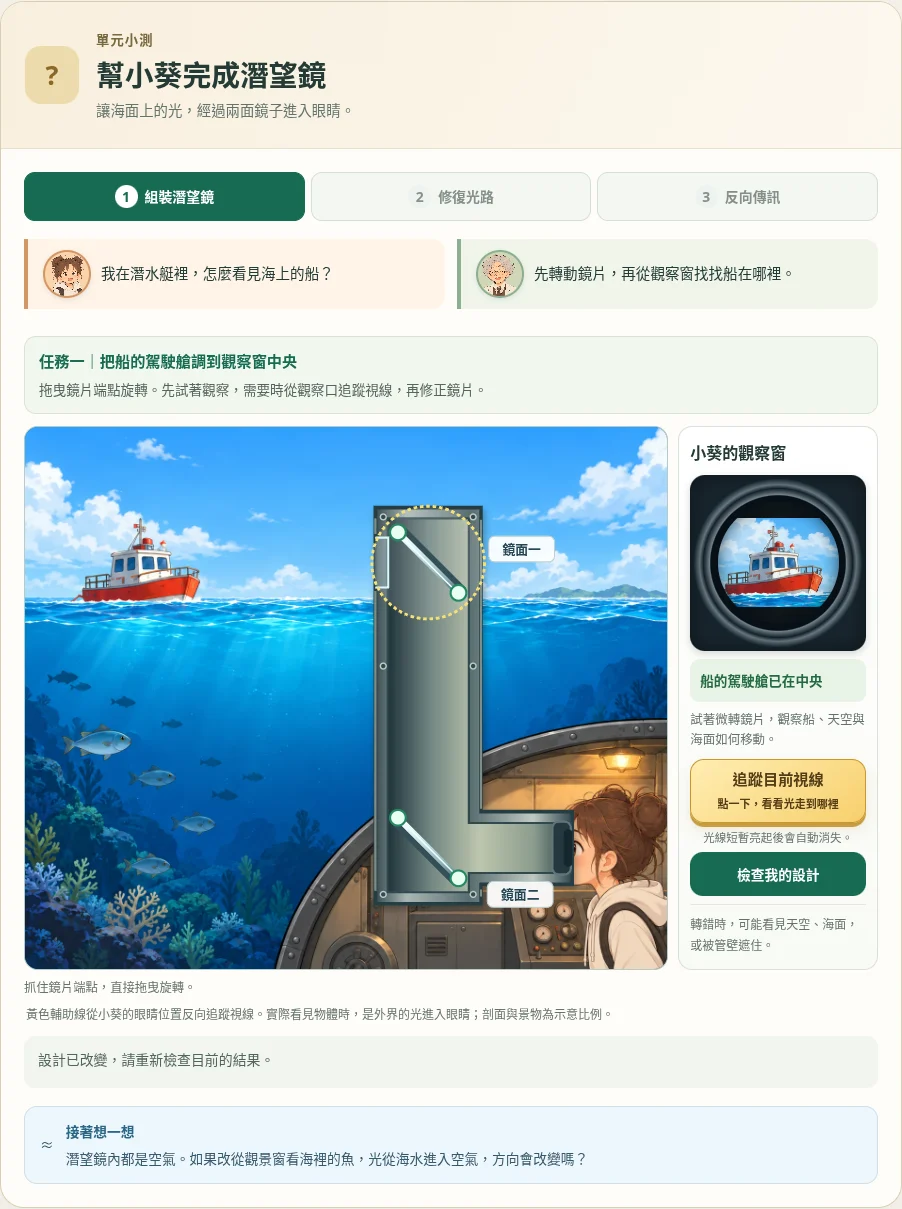
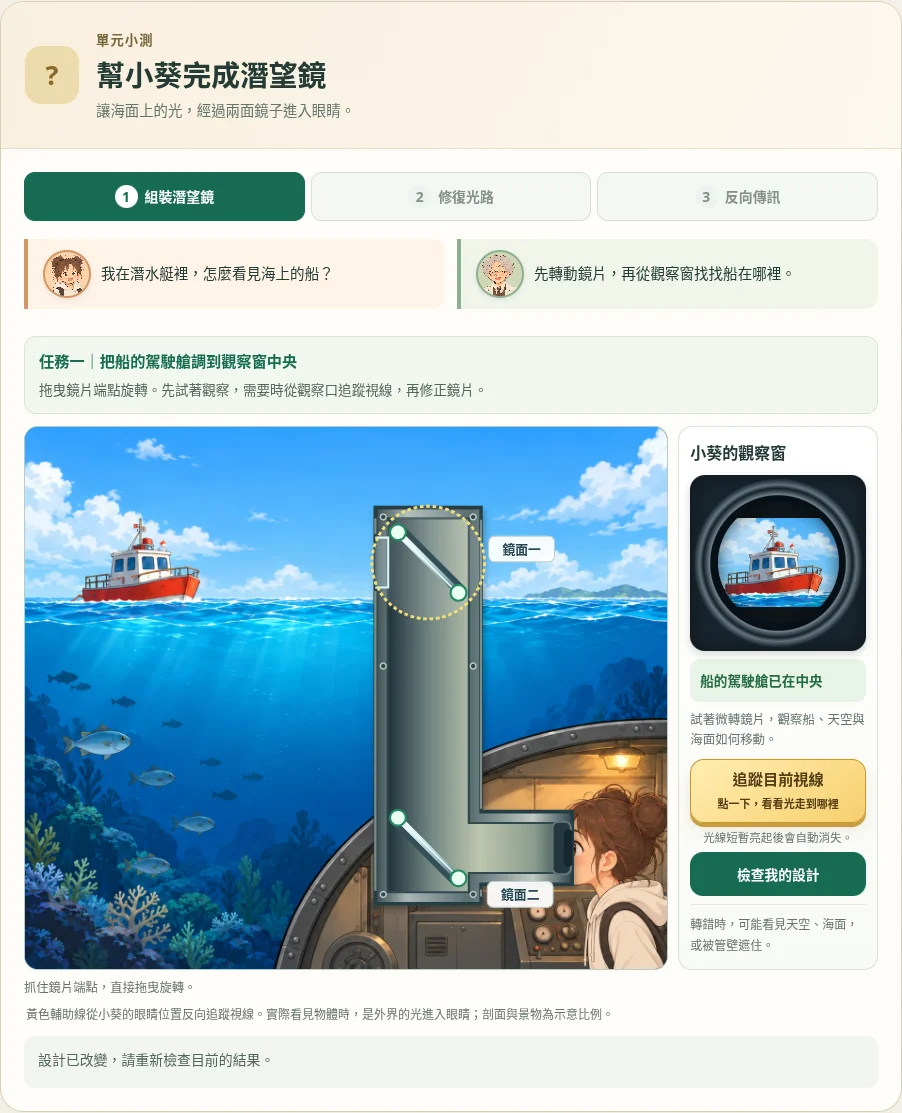
Focus periscope repair on hands-on mirror adjustment

diff --git a/units/1/parts/1.2/assets/periscope.css b/units/1/parts/1.2/assets/periscope.css
@@ -9,8 +9,8 @@
 .periscope-task{display:flex;align-items:start;gap:12px;margin:17px 0 12px;padding:12px 14px;border:1px solid #d9e3d6;background:#f2f7ef;border-radius:12px}.periscope-task strong{display:block;color:var(--green);font-size:.95rem}.periscope-task p{margin:3px 0 0;color:#53665d;font-size:.85rem}
 .periscope-workspace{display:grid;grid-template-columns:minmax(0,1fr) minmax(160px,.31fr);gap:10px;align-items:stretch}.periscope-cutaway{position:relative;min-width:0;overflow:hidden;border:1px solid #b8cbc9;border-radius:14px;background:#16658d;line-height:0}.periscope-cutaway>svg{display:block;width:100%;height:auto;aspect-ratio:900/760}.periscope-cutaway text{font-family:inherit;fill:#244653;font-size:18px;font-weight:750}.periscope-cutaway .scene-label rect{fill:#fffffff0;stroke:#bdd1d0;stroke-width:1.5}.periscope-cutaway .mirror-drag{touch-action:none;cursor:grab;outline:none}.periscope-cutaway .mirror-drag:active{cursor:grabbing}.periscope-cutaway .mirror-drag:focus-visible .scope-mirror-focus{stroke:#f6df74;stroke-width:4;stroke-dasharray:5 4;fill:#fff2}.periscope-cutaway .mirror-drag[aria-disabled=true]{cursor:default}.scope-mirror-focus{fill:transparent;stroke:transparent}.scope-mirror-hit{stroke:transparent;stroke-width:76;pointer-events:stroke}.scope-mirror-handle{fill:#e8fff0;stroke:#238965;stroke-width:3;pointer-events:none}.periscope-path{pointer-events:none}.periscope-path path{stroke-linejoin:round;stroke-linecap:round;fill:none}.periscope-path .light-glow{filter:url(#scope-glow);stroke-width:10;opacity:.65}.periscope-path .light-line{stroke-width:4}.periscope-path .light-arrow{stroke-width:3}.periscope-model-note{margin:6px 2px 0;color:var(--muted);font-size:.75rem;line-height:1.6}
 .periscope-view{display:flex;flex-direction:column;justify-content:flex-start;min-width:0;gap:12px;border:1px solid #d9e1db;border-radius:14px;background:linear-gradient(#fff,#f8faf5);padding:13px 11px}.periscope-view h3{margin:0;font-size:1rem;color:var(--ink)}.periscope-lens-frame{position:relative;display:grid;place-items:center;aspect-ratio:1;border-radius:15px;background:radial-gradient(circle,#080f15 0 54%,#72808a 55%,#35454d 58%,#162129 60%,#677781 63%,#26363f 67%,#17242c 68%);box-shadow:inset 0 0 18px #0007,0 3px 8px #253b3330;overflow:hidden}.periscope-lens-frame::after{position:absolute;inset:15.5%;content:'';border-radius:50%;box-shadow:inset 0 0 10px #061b2570;pointer-events:none}.periscope-lens-frame canvas{display:block;width:69%;height:69%;border-radius:50%;background:#111b22}.periscope-view-state{display:flex;align-items:center;gap:7px;min-height:43px;padding:8px 10px;border-radius:10px;background:#eef2ed;color:#4a6058;font-size:.85rem;font-weight:800;line-height:1.4}.periscope-view-state[data-kind=boat]{background:#e8f3e5;color:#246a42}.periscope-view-state[data-kind=blocked]{background:#e9edf0;color:#405260}.periscope-view p{margin:0;color:var(--muted);font-size:.78rem;line-height:1.65}.periscope-view-meter{margin-top:auto;border-top:1px solid #e2e8e0;padding-top:10px;font-size:.75rem;color:#65736c}.periscope-controls{display:flex;flex-wrap:wrap;gap:8px;margin-top:12px}.periscope-controls button{flex:1 1 auto;min-height:44px;padding:8px 10px;border:1px solid #cbd8d2;border-radius:10px;background:#fff;color:#2e5447;font-size:.86rem;font-weight:750}.periscope-controls button[aria-pressed=true]{background:#e5f3eb;border-color:#278361}.periscope-keyboard{margin:8px 0 0;color:var(--muted);font-size:.77rem}
-.periscope-question{margin-top:19px;padding:16px;border:1px solid #d9e1db;border-radius:14px;background:#fff}.periscope-question h3{font-size:1rem;margin:0 0 5px}.periscope-question>p{font-size:.83rem;color:var(--muted);margin:0 0 13px}.periscope-answer-list{display:grid;gap:8px;margin-top:12px}.periscope-answer{min-height:45px;padding:10px 13px;border:1px solid #d3ded8;border-radius:10px;background:#fff;color:var(--ink);text-align:left;font-size:.9rem}.periscope-answer::before{content:'○';margin-right:9px;color:#87998e}.periscope-answer[aria-pressed=true]{border-color:var(--green);background:#edf6ed}.periscope-answer[aria-pressed=true]::before{content:'●';color:var(--green)}.periscope-choice-row{display:flex;gap:9px}.periscope-choice-row button{flex:1}
-.periscope-footer{display:flex;align-items:center;gap:10px;flex-wrap:wrap;margin-top:15px}.periscope-footer button{min-height:46px}.periscope-feedback{margin-top:12px;padding:12px 14px;min-height:52px;border-radius:11px;background:#f2f5ef;color:#51665a;font-size:.87rem}.periscope-feedback[data-state=good]{background:#e9f4e8;color:#24633e}.periscope-feedback[data-state=try]{background:#fff2e2;color:#7a512c}.periscope-next-lesson{display:flex;gap:12px;align-items:center;margin-top:18px;padding:13px 15px;border:1px solid #cfdfeb;border-radius:13px;background:#edf7fd;font-size:.86rem;color:#36586c}.periscope-next-lesson strong{display:block;color:#2a6584}.periscope-next-lesson p{margin:3px 0 0}.periscope-signal{border-color:#5485af!important;color:#275f8d!important;background:#eef6ff!important}.periscope-signal[aria-pressed=true]{background:#236fa9!important;color:#fff!important}.periscope-complete{margin-top:14px;padding:16px;border:1px solid #b6d0b7;border-radius:13px;background:#edf7e9}.periscope-complete h3{color:var(--green);margin:0 0 5px;font-size:1.05rem}.periscope-complete p{margin:0;color:#48624e;font-size:.88rem}
+.periscope-question{margin-top:19px;padding:16px;border:1px solid #d9e1db;border-radius:14px;background:#fff}.periscope-question h3{font-size:1rem;margin:0 0 5px}.periscope-question>p{font-size:.83rem;color:var(--muted);margin:0 0 13px}.periscope-answer-list{display:grid;gap:8px;margin-top:12px}.periscope-answer{min-height:45px;padding:10px 13px;border:1px solid #d3ded8;border-radius:10px;background:#fff;color:var(--ink);text-align:left;font-size:.9rem}.periscope-answer::before{content:'○';margin-right:9px;color:#87998e}.periscope-answer[aria-pressed=true]{border-color:var(--green);background:#edf6ed}.periscope-answer[aria-pressed=true]::before{content:'●';color:var(--green)}
+.periscope-footer{display:flex;align-items:center;gap:10px;flex-wrap:wrap;margin-top:15px}.periscope-footer button{min-height:46px}.periscope-feedback{margin-top:12px;padding:12px 14px;min-height:52px;border-radius:11px;background:#f2f5ef;color:#51665a;font-size:.87rem}.periscope-feedback[data-state=good]{background:#e9f4e8;color:#24633e}.periscope-feedback[data-state=try]{background:#fff2e2;color:#7a512c}.periscope-signal{border-color:#5485af!important;color:#275f8d!important;background:#eef6ff!important}.periscope-signal[aria-pressed=true]{background:#236fa9!important;color:#fff!important}.periscope-complete{margin-top:14px;padding:16px;border:1px solid #b6d0b7;border-radius:13px;background:#edf7e9}.periscope-complete h3{color:var(--green);margin:0 0 5px;font-size:1.05rem}.periscope-complete p{margin:0;color:#48624e;font-size:.88rem}
 @media(min-width:1000px){.periscope-talks{display:grid;grid-template-columns:1fr 1fr;gap:12px}.periscope-talks .dialogue{margin-top:0}.periscope-body{padding:23px}}
 @media(max-width:1050px) and (min-width:601px){.periscope-workspace{grid-template-columns:1fr}.periscope-view{display:grid;grid-template-columns:130px 1fr;align-items:center}.periscope-view h3{grid-column:1/-1}.periscope-lens-frame{grid-row:2/5}.periscope-view-meter{display:none}}
 @media(max-width:600px){.periscope-heading{padding:18px 15px;gap:12px}.periscope-heading .quiz-icon{flex-basis:42px;height:48px;border-radius:12px}.periscope-body{padding:14px}.periscope-steps{gap:4px}.periscope-steps button{font-size:.76rem;flex-direction:column;gap:4px;padding:8px 3px}.periscope-workspace{grid-template-columns:1fr}.periscope-view{display:grid;grid-template-columns:120px 1fr;gap:8px 12px;align-items:center;padding:11px}.periscope-view h3{grid-column:1/-1}.periscope-lens-frame{grid-row:2/5}.periscope-view-meter{display:none}.periscope-view-state{font-size:.82rem}.periscope-view p{font-size:.76rem}.periscope-question{padding:12px}.periscope-controls{gap:6px}.periscope-controls button{font-size:.78rem;padding:7px}.periscope-task{padding:10px 12px}.periscope-task p{font-size:.8rem}.periscope-heading h2{font-size:1.28rem}}

diff --git a/units/1/parts/1.2/assets/periscope.js b/units/1/parts/1.2/assets/periscope.js
@@ -6,7 +6,7 @@ if(root) {
   const $=s=>root.querySelector(s), $$=s=>[...root.querySelectorAll(s)];
   const svg=$('#periscope-scene'), canvas=$('#periscope-view'), ctx=canvas.getContext('2d',{alpha:false});
   const groups=[$('#periscope-mirror-0'),$('#periscope-mirror-1')];
-  const state={stage:0,angles:[38,51],done:[false,false,false],diagnosis:null,prediction:null,signal:false,verified:false,saved:[45,45]};
+  const state={stage:0,angles:[38,51],done:[false,false,false],prediction:null,signal:false,verified:false,saved:[45,45]};
   let scenePixels=null, lastViewKey='', pending=0, dragging=null;
   const reducedMotion=matchMedia('(prefers-reduced-motion: reduce)');
   let pulse=null,pulseFrame=0,pulseEndTimer=0,pulseUnlockTimer=0,nextPulseAt=0,pulseCount=0;
@@ -169,8 +169,7 @@ if(root) {
     $('#periscope-view-copy').textContent=state.stage===2?'鏡片固定，保留剛才看見的景象作對照。':info.kind==='blocked'?'鏡子未把外界的光送進眼睛。看看光在哪裡被擋住。':info.blocked/(info.clear+info.blocked)>.3?'邊緣的暗區是管壁或有限鏡片造成的遮擋。':'試著微轉鏡片，觀察船、天空與海面如何移動。';
     $$('.periscope-steps button').forEach((b,i)=>{b.disabled=i>0&&!state.done[i-1];b.setAttribute('aria-selected',String(i===state.stage));b.tabIndex=i===state.stage?0:-1;b.dataset.complete=String(state.done[i]);});
     $('#periscope-panel').setAttribute('aria-labelledby',`periscope-tab-${state.stage}`);
-    for(let i=1;i<3;i++)$(`#periscope-question-${i}`).hidden=i!==state.stage;
-    $$('[data-diagnosis]').forEach(b=>b.setAttribute('aria-pressed',String(Number(b.dataset.diagnosis)===state.diagnosis)));
+    $('#periscope-question-2').hidden=state.stage!==2;
     $$('[data-prediction]').forEach(b=>b.setAttribute('aria-pressed',String(b.dataset.prediction===state.prediction)));
     updatePulseControls();
     $('#periscope-signal').hidden=state.stage!==2;$('#periscope-signal').disabled=!state.prediction;$('#periscope-signal').setAttribute('aria-pressed',String(state.signal));$('#periscope-signal').textContent=state.signal?'關閉訊號光':'發送訊號光';
@@ -218,7 +217,6 @@ if(root) {
     g.addEventListener('pointerup',end);g.addEventListener('pointercancel',end);g.addEventListener('lostpointercapture',()=>{dragging=null;});
     g.addEventListener('keydown',e=>{if(state.stage===2)return;let n=state.angles[i],step=e.shiftKey?2:.5;if(e.key==='ArrowLeft'||e.key==='ArrowDown')n-=step;else if(e.key==='ArrowRight'||e.key==='ArrowUp')n+=step;else if(e.key==='Home')n=OPTICS.minAngle;else if(e.key==='End')n=OPTICS.maxAngle;else return;e.preventDefault();setAngle(i,n);});
   });
-  $$('[data-diagnosis]').forEach(b=>b.addEventListener('click',()=>{invalidate();state.diagnosis=Number(b.dataset.diagnosis);render();}));
   $$('[data-prediction]').forEach(b=>b.addEventListener('click',()=>{invalidate();state.prediction=b.dataset.prediction;state.verified=false;state.signal=false;render();}));
   $('#periscope-pulse').addEventListener('click',emitPulse);
   $('#periscope-signal').addEventListener('click',()=>{if(!state.prediction)return;state.signal=!state.signal;if(state.signal)state.verified=true;render();});
@@ -227,15 +225,15 @@ if(root) {
     cancelPulse(true);state.stage=stage;state.signal=false;state.verified=false;
     const content=[
       ['我在潛水艇裡，怎麼看見海上的船？','先轉動鏡片，再從觀察窗找找船在哪裡。','任務一｜把船的駕駛艙調到觀察窗中央','拖曳鏡片端點旋轉。先試著觀察，需要時從觀察口追蹤視線，再修正鏡片。'],
-      ['剛才明明看見船，怎麼現在偏向天空了？','先判斷哪片鏡子被轉動，再把景象修回來。','任務二｜找出故障，讓船重新回到中央','先選擇你的判斷，再拖動鏡片修復；需要時從觀察口反向追蹤視線。'],
+      ['剛才明明看見船，怎麼現在偏向天空了？','轉動鏡片，試著把船重新找回來。','任務二｜把船重新調回觀察窗中央','拖曳鏡片端點，觀察景象怎麼移動；需要時追蹤目前視線，再調整鏡片。'],
       ['我能沿同一條路，把訊號送回船上嗎？','鏡片保持不動，先預測，再發送藍色訊號光。','任務三｜讓訊號沿原光路返回','暫以訊號光源替換眼睛；黃色是原入眼光線，藍光從同一位置反向發出。']
     ][stage];
     ['#periscope-student','#periscope-grandpa','#periscope-task-title','#periscope-task-copy'].forEach((id,i)=>$(id).textContent=content[i]);
     if(stage===0) {
       feedback('調整兩片鏡子，讓船的駕駛艙出現在觀察窗中央。');
     } else if(stage===1) {
-      state.angles=[Math.min(65,state.saved[0]+9),state.saved[1]];state.diagnosis=null;state.done[1]=false;state.done[2]=false;
-      feedback('先判斷哪片鏡子偏了，再修復；只碰巧看到船還不算完成。');
+      state.angles=[Math.min(65,state.saved[0]+9),state.saved[1]];state.done[1]=false;state.done[2]=false;
+      feedback('調整鏡片，讓船的駕駛艙重新回到觀察窗中央。');
     } else {state.angles=[...state.saved];state.prediction=null;state.done[2]=false;feedback('先選擇預測，再發送訊號，最後確認你的判斷。');}
     lastViewKey='';render();
   }
@@ -250,11 +248,9 @@ if(root) {
       if(!info.target){feedback('還沒對準船的駕駛艙。看看觀察窗：目前是天空、海面，還是被管壁擋住？','try');return;}
       state.saved=[...state.angles];state.done[0]=true;feedback('設計完成！小葵已看見船的駕駛艙。接著試著排除故障。','good');
     } else if(state.stage===1) {
-      if(state.diagnosis===null){feedback('先判斷哪片鏡子被轉動，再檢查修復結果。','try');return;}
-      if(state.diagnosis!==0){feedback('這次被轉動的鏡片與你的判斷不同。比較光從哪一處開始偏離，再試一次。','try');return;}
-      if(!info.target){feedback('已找出故障鏡片，還要把船的駕駛艙調回觀察窗中央。','try');return;}
+      if(!info.target){feedback('還沒對準，再調整鏡片，讓船的駕駛艙回到觀察窗中央。','try');return;}
       if(!returnSignal(state.angles).receiver){feedback('船已進入視野，再拖動鏡片讓駕駛艙回到中央，讓接下來的訊號也能回到船上。','try');return;}
-      state.saved=[...state.angles];state.done[1]=true;feedback('修復成功！上方鏡片偏轉，會把視線帶向天空或海面；偏得太多也會被管壁擋住。','good');
+      state.saved=[...state.angles];state.done[1]=true;feedback('修復成功！船已回到中央。鏡面角度改變，視線也會跟著改變。','good');
     } else {
       if(!state.prediction){feedback('先選擇一個預測，再發送訊號驗證。','try');return;}
       if(!state.verified){feedback('按「發送訊號光」，實際比較藍光與黃色原路線。','try');return;}

diff --git a/units/1/parts/1.2/index.html b/units/1/parts/1.2/index.html
@@ -103,7 +103,7 @@
   </style>
   <link rel="stylesheet" href="assets/curved-mirrors.css?v=1">
   <link rel="stylesheet" href="assets/reversible-light.css?v=3">
-  <link rel="stylesheet" href="assets/periscope.css?v=7">
+  <link rel="stylesheet" href="assets/periscope.css?v=8">
 </head>
 <body>
   <header class="shell masthead">
@@ -439,13 +439,11 @@
               <div class="periscope-controls" id="periscope-signal-controls" hidden><button type="button" id="periscope-signal" class="periscope-signal" aria-pressed="false" hidden disabled>發送訊號光</button></div>
               <p class="periscope-keyboard" id="periscope-drag-help">抓住鏡片端點，直接拖曳旋轉。</p>
               <p class="periscope-model-note">黃色輔助線從小葵的眼睛位置反向追蹤視線。實際看見物體時，是外界的光進入眼睛；剖面與景物為示意比例。</p>
-              <div class="periscope-question" id="periscope-question-1" hidden><h3>哪一片鏡子被轉動了？</h3><p>比較原本的路線，先作判斷，再試著修復。</p><div class="periscope-choice-row"><button class="periscope-answer" type="button" data-diagnosis="0" aria-pressed="false">鏡面一</button><button class="periscope-answer" type="button" data-diagnosis="1" aria-pressed="false">鏡面二</button></div></div>
               <div class="periscope-question" id="periscope-question-2" hidden><h3>鏡子不動，從眼睛的位置沿原光路反向發出訊號，會怎麼走？</h3><p>先預測，再按「發送訊號光」比較藍光與原本的路線。</p><div class="periscope-answer-list"><button class="periscope-answer" type="button" data-prediction="same" aria-pressed="false">沿完整的原路徑返回，從上方入口照向船。</button><button class="periscope-answer" type="button" data-prediction="inside" aria-pressed="false">只有管內的路徑重合，離開入口後方向會不同。</button><button class="periscope-answer" type="button" data-prediction="turn" aria-pressed="false">兩次反射後會換一條路，需要再調鏡子才能照向船。</button></div></div>
               <div class="periscope-footer" hidden><button type="button" id="periscope-next" class="action" hidden>前往修復光路 →</button></div>
               <div id="periscope-feedback" class="periscope-feedback" role="status">調整兩片鏡子，讓船的駕駛艙出現在觀察窗中央。</div>
               <div id="periscope-complete" class="periscope-complete" hidden><h3>任務完成！小葵看見船，也把訊號送回去了。</h3><p>每一次反射都遵守入射角等於反射角。鏡面固定時，光也能沿原路徑反向傳播。</p></div>
             </div>
-            <div class="periscope-next-lesson"><span aria-hidden="true">≈</span><div><strong>接著想一想</strong><p>潛望鏡內都是空氣。如果改從觀景窗看海裡的魚，光從海水進入空氣，方向會改變嗎？</p></div></div>
             <noscript><p>這個小測需要 JavaScript。船反射的光經上方、下方兩片平面鏡進入眼睛；鏡片偏轉可能讓視線改向天空、海面或被管壁遮擋。</p></noscript>
           </div>
         </section>
@@ -474,6 +472,6 @@
   <script type="module" src="assets/reflection-3d.js?v=46"></script>
   <script type="module" src="assets/laser-reflection.js?v=36"></script>
   <script type="module" src="assets/reversible-light.js?v=3"></script>
-  <script type="module" src="assets/periscope.js?v=12"></script>
+  <script type="module" src="assets/periscope.js?v=13"></script>
 </body>
 </html>

diff --git a/tests/README.md b/tests/README.md
@@ -139,7 +139,7 @@ CHROMIUM_PATH=/usr/bin/chromium node --test tests/unit-5.1-dual-scale.test.cjs t
 CHROMIUM_PATH=/usr/bin/chromium node --test --test-concurrency=1 tests/unit-1.2-periscope.test.cjs tests/unit-1.2-mirror.test.cjs tests/unit-1.2-curved-mirrors.test.cjs tests/unit-1.2-reversible.test.cjs
 ```
 
-潛望鏡檢查有限鏡片與單面反射、36 × 36 組角度的反射分量及管道邊界、不同視線的獨立反向傳播、船／天空／海面及局部／完全遮擋、觀察窗實際像素與完整三維視線的交叉核對。實際操作涵蓋兩片鏡子的滑鼠拖曳、CDP 觸控拖曳、鍵盤與半度微調、角度上下限、取消拖曳、光路及提示、第一關只依實際對準判定、後兩關答案與操作門檻、反向訊號重合、狀態失效及沒有整份重來按鈕，以及 1440／1280／1024／768／390 px 版面、資源錯誤及離頁時 GPU 資源釋放。
+潛望鏡檢查有限鏡片與單面反射、36 × 36 組角度的反射分量及管道邊界、不同視線的獨立反向傳播、船／天空／海面及局部／完全遮擋、觀察窗實際像素與完整三維視線的交叉核對。實際操作涵蓋兩片鏡子的滑鼠拖曳、CDP 觸控拖曳、鍵盤與半度微調、角度上下限、取消拖曳、光路及提示、第一關只依實際對準判定、第二關僅依實際修復判定、沒有鏡片選擇題或底部折射延伸問題、第三關答案與操作門檻、反向訊號重合、狀態失效及沒有整份重來按鈕，以及 1440／1280／1024／768／390 px 版面、資源錯誤及離頁時 GPU 資源釋放。
 
 與第三至六區循序執行回歸，避免多個軟體 WebGL 瀏覽器競用。實體點擊前取消平滑捲動並確認座標穩定，不以強制點擊略過命中問題。觀察窗取樣核對使用相同 Canvas CPU 色彩取樣方式，以免 GPU／CPU 縮圖插值差異被誤判為光路偏差。整卡截圖暫隱藏外側 sticky 導覽，避免離開視窗的部分在長截圖中混入懸浮導覽；正式頁面不隱藏導覽。截圖與人工對照保留在 `docs/reviews/unit-1.2-periscope/`。
 

diff --git a/docs/reviews/unit-1.2-periscope/review.md b/docs/reviews/unit-1.2-periscope/review.md
@@ -155,3 +155,11 @@
 五種寬度檢查無圖示、緊湊尺寸、檢查按鈕在追蹤按鈕下方及卡片內、剖面沒有被撐出空白，另確認完整三關流程。結果見 `compact-actions-tests.log`。
 
 本輪 **23 項檢查通過、0 失敗**（含外層項目）。已人工檢視桌面及手機截圖，確認追蹤按鈕只剩兩行文字、尺寸縮小、檢查按鈕移到下方；上一輪移除的全部重新挑戰也沒有再出現。
+
+## 第二關回到鏡片修復活動（2026-10-28）
+
+依使用者回饋移除第二關「哪一片鏡子被轉動」選擇題、判斷狀態／事件及通關門檻，並刪除底部跨到折射概念的「接著想一想」。第二關只需實際拖曳鏡片，讓駕駛艙重新回到觀察窗中央，再按檢查修復結果。任務對話、操作提示與結果文字同步改成觀察、調整與確認，沒有選答案要求。
+
+保留對準結果及反向訊號所需的實際幾何檢查，未調回中央不能通過；通過後再次改動仍須重檢。測試驗證問題／選項／延伸卡片不存在、錯誤角度不能通過、直接拖曳可完成第二關、改動後失效，以及第三關正常解鎖。第二關畫面另存 `repair-desktop.webp`；紀錄見 `repair-activity-tests.log`。
+
+本輪 **23 項檢查通過、0 失敗**（含外層項目）。已人工檢視第二關畫面，確認畫面以剖面、觀察窗、追蹤與修復操作為主，下方選擇題及跨單元延伸問題均完整移除，三關仍能完成。

diff --git a/units/1/parts/1.2/assets/README.md b/units/1/parts/1.2/assets/README.md
@@ -62,3 +62,5 @@
 2026-10-28 完整重來控制精簡：移除「全部重新挑戰」、對應監聽與整份重設分支。完成三關後顯示成果，仍可用既有階段頁籤回看及調整。
 
 2026-10-28 按鈕排列：追蹤按鈕移除圖示並縮為 64 px 兩行文字版；觀察窗內新增檢查操作位置。`render()` 將同一個檢查按鈕在觀察窗與第三關題目後方之間移動，保留事件與可存取文字。沒有另外複製按鈕或重新挑戰控制。
+
+2026-10-28 第二關精簡：刪除 `periscope-question-1`、`data-diagnosis`、判斷狀態與事件，以及底部折射延伸卡片和專用樣式。第二關依實際修復後的觀察與幾何結果判定通過，沒有額外選項門檻。

diff --git a/units/1/parts/1.2/storyline.md b/units/1/parts/1.2/storyline.md
@@ -157,3 +157,7 @@
 ### 縮小追蹤按鈕並集中檢查操作（2026-10-28）
 
 追蹤按鈕改為只有標題與邀請小字的兩行文字，不使用圓形光線圖示；將檢查我的設計放在追蹤入口下方。修復檢查沿用此位置，反向預測確認則位於題目之後。
+
+### 第二關以實際修復為主（2026-10-28）
+
+移除辨認鏡面一／二的選擇題及答題門檻。學生觀察船的位置，旋轉鏡片，將駕駛艙調回觀察窗中央後直接確認修復；對話與回饋只引導實作。底部跨到下一單元的折射延伸問題一併移除。
